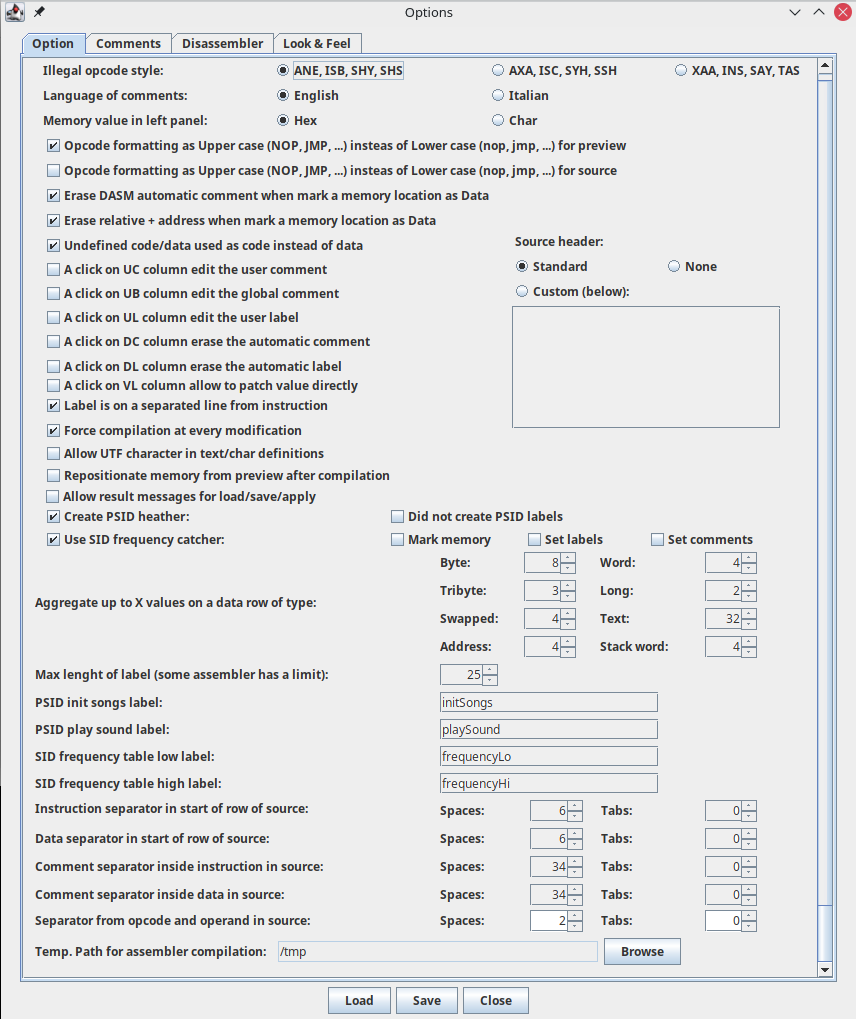
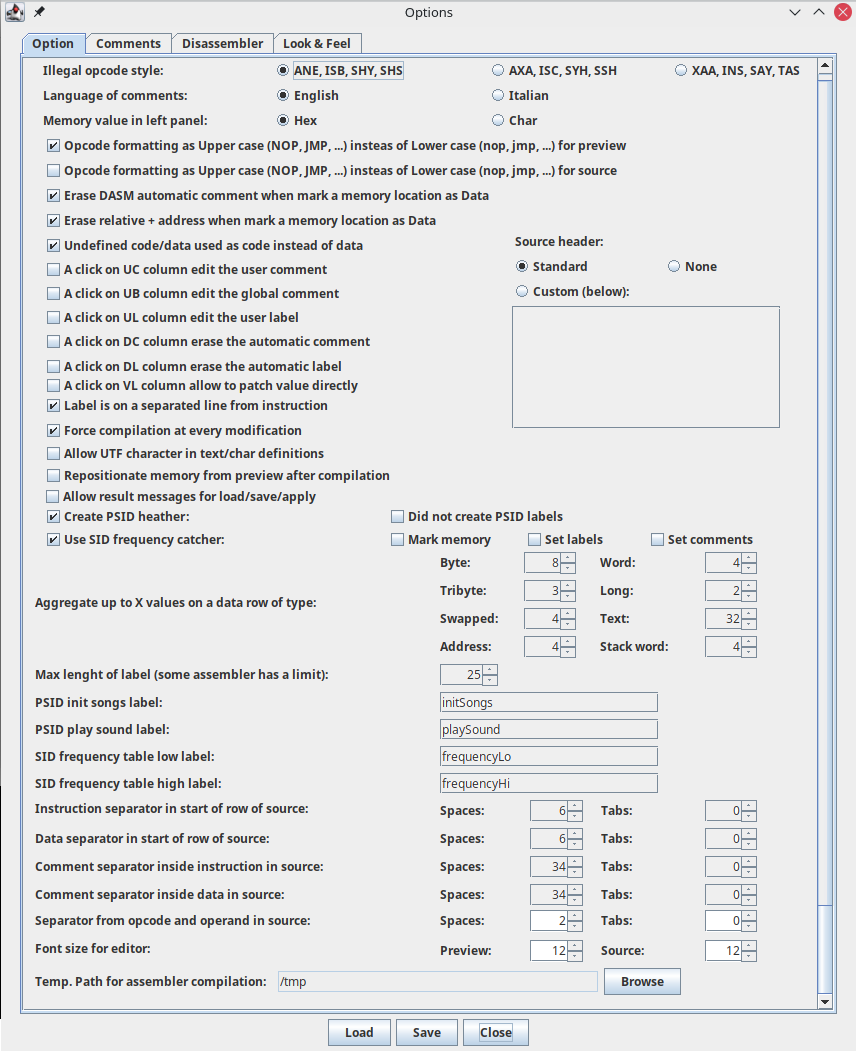
Add option for set size of preview and source text

diff --git a/src/sw_emulator/swing/help/option.html b/src/sw_emulator/swing/help/option.html
@@ -82,6 +82,7 @@
   <li><b>Comment separator inside instruction in source:</b> select how many spaces/tabs you want to separate a comment into the source with an instruction</li>
   <li><b>Comment separator inside data in source:</b> select how many spaces/tabs you want to separate a comment into the source with a data</li>
   <li><b>Separator from opcode and operand in source:</b> select how many spaces/tabs you want to separate opcode and operand. Due to the different length of opcode in processors, with 1 or 2 spaces it can break the aligment. Optimal minimal is 2 for M6502 and 3 for Z80.</li>
+  <li><b>Font size for editor:</b> select the font size for preview and source text.</li>
   <li><b>Temp path for assembler compilation:</b> a path used for generating the binary of assembler. The best way is to use a memory drive (/tmp in most of Linux ditribution for example) as the generated files are to be considearte temporary</li>
  </ul>
  The disassembler engine used the SidFreq class implemented in XSidplay2 for detecting the A4 frequency that a tune is playing by searching in memory for the low and high part of table frequency of the octaves the SID can play.<br>

diff --git a/src/sw_emulator/swing/JOptionDialog.java b/src/sw_emulator/swing/JOptionDialog.java
@@ -227,6 +227,11 @@ public class JOptionDialog extends javax.swing.JDialog {
         jSpinnerDataSpacesOp = new javax.swing.JSpinner();
         jLabelDataTabsOp = new javax.swing.JLabel();
         jSpinnerDataTabsOp = new javax.swing.JSpinner();
+        jLabelFontSize = new javax.swing.JLabel();
+        jLabelFontSizePreview = new javax.swing.JLabel();
+        jSpinnerSizePreview = new javax.swing.JSpinner();
+        jLabelFontSizeSource = new javax.swing.JLabel();
+        jSpinnerSizeSource = new javax.swing.JSpinner();
         jPanelComment = new javax.swing.JPanel();
         jLabelautocomment = new javax.swing.JLabel();
         jTabbedPaneComm = new javax.swing.JTabbedPane();
@@ -895,6 +900,28 @@ public class JOptionDialog extends javax.swing.JDialog {
             }
         });
 
+        jLabelFontSize.setText("Font size for editor:");
+
+        jLabelFontSizePreview.setText("Preview:");
+
+        jSpinnerSizePreview.setModel(new javax.swing.SpinnerNumberModel(12, 6, 78, 1));
+        jSpinnerSizePreview.setToolTipText("");
+        jSpinnerSizePreview.addChangeListener(new javax.swing.event.ChangeListener() {
+            public void stateChanged(javax.swing.event.ChangeEvent evt) {
+                jSpinnerSizePreviewStateChanged(evt);
+            }
+        });
+
+        jLabelFontSizeSource.setText("Source:");
+
+        jSpinnerSizeSource.setModel(new javax.swing.SpinnerNumberModel(12, 6, 78, 1));
+        jSpinnerSizeSource.setToolTipText("");
+        jSpinnerSizeSource.addChangeListener(new javax.swing.event.ChangeListener() {
+            public void stateChanged(javax.swing.event.ChangeEvent evt) {
+                jSpinnerSizeSourceStateChanged(evt);
+            }
+        });
+
         javax.swing.GroupLayout jPanelPreviewLayout = new javax.swing.GroupLayout(jPanelPreview);
         jPanelPreview.setLayout(jPanelPreviewLayout);
         jPanelPreviewLayout.setHorizontalGroup(
@@ -942,41 +969,6 @@ public class JOptionDialog extends javax.swing.JDialog {
                                     .addGroup(jPanelPreviewLayout.createSequentialGroup()
                                         .addGroup(jPanelPreviewLayout.createParallelGroup(javax.swing.GroupLayout.Alignment.LEADING)
                                             .addGroup(jPanelPreviewLayout.createSequentialGroup()
-                                                .addGroup(jPanelPreviewLayout.createParallelGroup(javax.swing.GroupLayout.Alignment.LEADING, false)
-                                                    .addComponent(jLabelDataCSep, javax.swing.GroupLayout.DEFAULT_SIZE, javax.swing.GroupLayout.DEFAULT_SIZE, Short.MAX_VALUE)
-                                                    .addComponent(jLabelInstrCSep, javax.swing.GroupLayout.DEFAULT_SIZE, javax.swing.GroupLayout.DEFAULT_SIZE, Short.MAX_VALUE)
-                                                    .addComponent(jLabelDataSep, javax.swing.GroupLayout.DEFAULT_SIZE, javax.swing.GroupLayout.DEFAULT_SIZE, Short.MAX_VALUE)
-                                                    .addComponent(jLabelInstrSep, javax.swing.GroupLayout.PREFERRED_SIZE, 381, javax.swing.GroupLayout.PREFERRED_SIZE))
-                                                .addGap(24, 24, 24)
-                                                .addGroup(jPanelPreviewLayout.createParallelGroup(javax.swing.GroupLayout.Alignment.LEADING)
-                                                    .addComponent(jLabelDataCSpace, javax.swing.GroupLayout.PREFERRED_SIZE, 60, javax.swing.GroupLayout.PREFERRED_SIZE)
-                                                    .addComponent(jLabelInstrCSpace, javax.swing.GroupLayout.PREFERRED_SIZE, 60, javax.swing.GroupLayout.PREFERRED_SIZE)
-                                                    .addComponent(jLabelDataSpace, javax.swing.GroupLayout.PREFERRED_SIZE, 60, javax.swing.GroupLayout.PREFERRED_SIZE)
-                                                    .addComponent(jLabelInstrSpace, javax.swing.GroupLayout.PREFERRED_SIZE, 60, javax.swing.GroupLayout.PREFERRED_SIZE)
-                                                    .addComponent(jLabelDataSpaceOp, javax.swing.GroupLayout.PREFERRED_SIZE, 60, javax.swing.GroupLayout.PREFERRED_SIZE))
-                                                .addGap(30, 30, 30)
-                                                .addGroup(jPanelPreviewLayout.createParallelGroup(javax.swing.GroupLayout.Alignment.LEADING)
-                                                    .addGroup(jPanelPreviewLayout.createSequentialGroup()
-                                                        .addComponent(jSpinnerInstrCSpaces, javax.swing.GroupLayout.PREFERRED_SIZE, 53, javax.swing.GroupLayout.PREFERRED_SIZE)
-                                                        .addGap(18, 18, 18)
-                                                        .addComponent(jLabelInstrCTabs))
-                                                    .addGroup(jPanelPreviewLayout.createSequentialGroup()
-                                                        .addGroup(jPanelPreviewLayout.createParallelGroup(javax.swing.GroupLayout.Alignment.LEADING)
-                                                            .addComponent(jSpinnerDataSpaces, javax.swing.GroupLayout.PREFERRED_SIZE, 53, javax.swing.GroupLayout.PREFERRED_SIZE)
-                                                            .addComponent(jSpinnerInstrSpaces, javax.swing.GroupLayout.PREFERRED_SIZE, 53, javax.swing.GroupLayout.PREFERRED_SIZE))
-                                                        .addPreferredGap(javax.swing.LayoutStyle.ComponentPlacement.UNRELATED)
-                                                        .addGroup(jPanelPreviewLayout.createParallelGroup(javax.swing.GroupLayout.Alignment.LEADING)
-                                                            .addComponent(jLabelInstrTabs)
-                                                            .addComponent(jLabelDataTabs)))
-                                                    .addGroup(jPanelPreviewLayout.createSequentialGroup()
-                                                        .addGroup(jPanelPreviewLayout.createParallelGroup(javax.swing.GroupLayout.Alignment.LEADING)
-                                                            .addComponent(jSpinnerDataCSpaces, javax.swing.GroupLayout.PREFERRED_SIZE, 53, javax.swing.GroupLayout.PREFERRED_SIZE)
-                                                            .addComponent(jSpinnerDataSpacesOp, javax.swing.GroupLayout.PREFERRED_SIZE, 53, javax.swing.GroupLayout.PREFERRED_SIZE))
-                                                        .addGap(18, 18, 18)
-                                                        .addGroup(jPanelPreviewLayout.createParallelGroup(javax.swing.GroupLayout.Alignment.LEADING)
-                                                            .addComponent(jLabelDataTabsOp)
-                                                            .addComponent(jLabelDataCTabs)))))
-                                            .addGroup(jPanelPreviewLayout.createSequentialGroup()
                                                 .addGap(352, 352, 352)
                                                 .addGroup(jPanelPreviewLayout.createParallelGroup(javax.swing.GroupLayout.Alignment.TRAILING)
                                                     .addGroup(jPanelPreviewLayout.createSequentialGroup()
@@ -1006,18 +998,65 @@ public class JOptionDialog extends javax.swing.JDialog {
                                                                 .addGap(18, 18, 18)
                                                                 .addComponent(jCheckBoxSetLabels)))
                                                         .addGap(97, 97, 97))))
-                                            .addComponent(jLabelDataSepOp, javax.swing.GroupLayout.PREFERRED_SIZE, 381, javax.swing.GroupLayout.PREFERRED_SIZE))
+                                            .addComponent(jLabelDataSepOp, javax.swing.GroupLayout.PREFERRED_SIZE, 381, javax.swing.GroupLayout.PREFERRED_SIZE)
+                                            .addGroup(jPanelPreviewLayout.createSequentialGroup()
+                                                .addGroup(jPanelPreviewLayout.createParallelGroup(javax.swing.GroupLayout.Alignment.LEADING)
+                                                    .addGroup(jPanelPreviewLayout.createParallelGroup(javax.swing.GroupLayout.Alignment.LEADING, false)
+                                                        .addComponent(jLabelDataCSep, javax.swing.GroupLayout.DEFAULT_SIZE, javax.swing.GroupLayout.DEFAULT_SIZE, Short.MAX_VALUE)
+                                                        .addComponent(jLabelInstrCSep, javax.swing.GroupLayout.DEFAULT_SIZE, javax.swing.GroupLayout.DEFAULT_SIZE, Short.MAX_VALUE)
+                                                        .addComponent(jLabelDataSep, javax.swing.GroupLayout.DEFAULT_SIZE, javax.swing.GroupLayout.DEFAULT_SIZE, Short.MAX_VALUE)
+                                                        .addComponent(jLabelInstrSep, javax.swing.GroupLayout.PREFERRED_SIZE, 381, javax.swing.GroupLayout.PREFERRED_SIZE))
+                                                    .addComponent(jLabelFontSize))
+                                                .addGap(24, 24, 24)
+                                                .addGroup(jPanelPreviewLayout.createParallelGroup(javax.swing.GroupLayout.Alignment.LEADING)
+                                                    .addGroup(jPanelPreviewLayout.createSequentialGroup()
+                                                        .addGroup(jPanelPreviewLayout.createParallelGroup(javax.swing.GroupLayout.Alignment.LEADING)
+                                                            .addComponent(jLabelDataCSpace, javax.swing.GroupLayout.PREFERRED_SIZE, 60, javax.swing.GroupLayout.PREFERRED_SIZE)
+                                                            .addComponent(jLabelInstrCSpace, javax.swing.GroupLayout.PREFERRED_SIZE, 60, javax.swing.GroupLayout.PREFERRED_SIZE)
+                                                            .addComponent(jLabelDataSpace, javax.swing.GroupLayout.PREFERRED_SIZE, 60, javax.swing.GroupLayout.PREFERRED_SIZE)
+                                                            .addComponent(jLabelInstrSpace, javax.swing.GroupLayout.PREFERRED_SIZE, 60, javax.swing.GroupLayout.PREFERRED_SIZE)
+                                                            .addComponent(jLabelDataSpaceOp, javax.swing.GroupLayout.PREFERRED_SIZE, 60, javax.swing.GroupLayout.PREFERRED_SIZE))
+                                                        .addGap(30, 30, 30)
+                                                        .addGroup(jPanelPreviewLayout.createParallelGroup(javax.swing.GroupLayout.Alignment.LEADING)
+                                                            .addGroup(jPanelPreviewLayout.createSequentialGroup()
+                                                                .addComponent(jSpinnerInstrCSpaces, javax.swing.GroupLayout.PREFERRED_SIZE, 53, javax.swing.GroupLayout.PREFERRED_SIZE)
+                                                                .addGap(18, 18, 18)
+                                                                .addComponent(jLabelInstrCTabs))
+                                                            .addGroup(jPanelPreviewLayout.createSequentialGroup()
+                                                                .addGroup(jPanelPreviewLayout.createParallelGroup(javax.swing.GroupLayout.Alignment.LEADING)
+                                                                    .addComponent(jSpinnerDataSpaces, javax.swing.GroupLayout.PREFERRED_SIZE, 53, javax.swing.GroupLayout.PREFERRED_SIZE)
+                                                                    .addComponent(jSpinnerInstrSpaces, javax.swing.GroupLayout.PREFERRED_SIZE, 53, javax.swing.GroupLayout.PREFERRED_SIZE))
+                                                                .addPreferredGap(javax.swing.LayoutStyle.ComponentPlacement.UNRELATED)
+                                                                .addGroup(jPanelPreviewLayout.createParallelGroup(javax.swing.GroupLayout.Alignment.LEADING)
+                                                                    .addComponent(jLabelInstrTabs)
+                                                                    .addComponent(jLabelDataTabs)))
+                                                            .addGroup(jPanelPreviewLayout.createSequentialGroup()
+                                                                .addGroup(jPanelPreviewLayout.createParallelGroup(javax.swing.GroupLayout.Alignment.LEADING)
+                                                                    .addComponent(jSpinnerDataCSpaces, javax.swing.GroupLayout.PREFERRED_SIZE, 53, javax.swing.GroupLayout.PREFERRED_SIZE)
+                                                                    .addComponent(jSpinnerDataSpacesOp, javax.swing.GroupLayout.PREFERRED_SIZE, 53, javax.swing.GroupLayout.PREFERRED_SIZE))
+                                                                .addGap(18, 18, 18)
+                                                                .addGroup(jPanelPreviewLayout.createParallelGroup(javax.swing.GroupLayout.Alignment.LEADING)
+                                                                    .addComponent(jLabelDataTabsOp)
+                                                                    .addComponent(jLabelDataCTabs)))))
+                                                    .addGroup(jPanelPreviewLayout.createSequentialGroup()
+                                                        .addComponent(jLabelFontSizePreview, javax.swing.GroupLayout.PREFERRED_SIZE, 60, javax.swing.GroupLayout.PREFERRED_SIZE)
+                                                        .addGap(30, 30, 30)
+                                                        .addComponent(jSpinnerSizePreview, javax.swing.GroupLayout.PREFERRED_SIZE, 53, javax.swing.GroupLayout.PREFERRED_SIZE)
+                                                        .addGap(18, 18, 18)
+                                                        .addComponent(jLabelFontSizeSource)))))
                                         .addPreferredGap(javax.swing.LayoutStyle.ComponentPlacement.RELATED)
-                                        .addGroup(jPanelPreviewLayout.createParallelGroup(javax.swing.GroupLayout.Alignment.LEADING, false)
-                                            .addComponent(jSpinnerMaxWordAggregate)
-                                            .addComponent(jSpinnerMaxLongAggregate)
-                                            .addComponent(jSpinnerMaxTextAggregate)
-                                            .addComponent(jSpinnerInstrCTabs)
-                                            .addComponent(jSpinnerDataTabs)
-                                            .addComponent(jSpinnerInstrTabs)
-                                            .addComponent(jSpinnerMaxStackWordAggregate)
-                                            .addComponent(jSpinnerDataCTabs, javax.swing.GroupLayout.PREFERRED_SIZE, 52, javax.swing.GroupLayout.PREFERRED_SIZE)
-                                            .addComponent(jSpinnerDataTabsOp, javax.swing.GroupLayout.PREFERRED_SIZE, 52, javax.swing.GroupLayout.PREFERRED_SIZE))))
+                                        .addGroup(jPanelPreviewLayout.createParallelGroup(javax.swing.GroupLayout.Alignment.LEADING)
+                                            .addComponent(jSpinnerSizeSource, javax.swing.GroupLayout.PREFERRED_SIZE, 52, javax.swing.GroupLayout.PREFERRED_SIZE)
+                                            .addGroup(jPanelPreviewLayout.createParallelGroup(javax.swing.GroupLayout.Alignment.LEADING, false)
+                                                .addComponent(jSpinnerMaxWordAggregate)
+                                                .addComponent(jSpinnerMaxLongAggregate)
+                                                .addComponent(jSpinnerMaxTextAggregate)
+                                                .addComponent(jSpinnerInstrCTabs)
+                                                .addComponent(jSpinnerDataTabs)
+                                                .addComponent(jSpinnerInstrTabs)
+                                                .addComponent(jSpinnerMaxStackWordAggregate)
+                                                .addComponent(jSpinnerDataCTabs, javax.swing.GroupLayout.PREFERRED_SIZE, 52, javax.swing.GroupLayout.PREFERRED_SIZE)
+                                                .addComponent(jSpinnerDataTabsOp, javax.swing.GroupLayout.PREFERRED_SIZE, 52, javax.swing.GroupLayout.PREFERRED_SIZE)))))
                                 .addGap(0, 0, Short.MAX_VALUE))))
                     .addGroup(jPanelPreviewLayout.createSequentialGroup()
                         .addGap(20, 20, 20)
@@ -1225,17 +1264,25 @@ public class JOptionDialog extends javax.swing.JDialog {
                             .addComponent(jLabelDataCSep))))
                 .addPreferredGap(javax.swing.LayoutStyle.ComponentPlacement.RELATED)
                 .addGroup(jPanelPreviewLayout.createParallelGroup(javax.swing.GroupLayout.Alignment.CENTER)
+                    .addComponent(jLabelDataSepOp)
                     .addComponent(jLabelDataSpaceOp)
                     .addComponent(jSpinnerDataSpacesOp, javax.swing.GroupLayout.PREFERRED_SIZE, javax.swing.GroupLayout.DEFAULT_SIZE, javax.swing.GroupLayout.PREFERRED_SIZE)
                     .addComponent(jLabelDataTabsOp)
-                    .addComponent(jSpinnerDataTabsOp, javax.swing.GroupLayout.Alignment.LEADING, javax.swing.GroupLayout.PREFERRED_SIZE, javax.swing.GroupLayout.DEFAULT_SIZE, javax.swing.GroupLayout.PREFERRED_SIZE)
-                    .addComponent(jLabelDataSepOp))
+                    .addComponent(jSpinnerDataTabsOp, javax.swing.GroupLayout.PREFERRED_SIZE, javax.swing.GroupLayout.DEFAULT_SIZE, javax.swing.GroupLayout.PREFERRED_SIZE))
+                .addPreferredGap(javax.swing.LayoutStyle.ComponentPlacement.RELATED)
+                .addGroup(jPanelPreviewLayout.createParallelGroup(javax.swing.GroupLayout.Alignment.LEADING)
+                    .addComponent(jLabelFontSize)
+                    .addGroup(jPanelPreviewLayout.createParallelGroup(javax.swing.GroupLayout.Alignment.CENTER)
+                        .addComponent(jLabelFontSizePreview)
+                        .addComponent(jSpinnerSizePreview, javax.swing.GroupLayout.PREFERRED_SIZE, javax.swing.GroupLayout.DEFAULT_SIZE, javax.swing.GroupLayout.PREFERRED_SIZE)
+                        .addComponent(jLabelFontSizeSource)
+                        .addComponent(jSpinnerSizeSource, javax.swing.GroupLayout.PREFERRED_SIZE, javax.swing.GroupLayout.DEFAULT_SIZE, javax.swing.GroupLayout.PREFERRED_SIZE)))
                 .addPreferredGap(javax.swing.LayoutStyle.ComponentPlacement.RELATED)
                 .addGroup(jPanelPreviewLayout.createParallelGroup(javax.swing.GroupLayout.Alignment.BASELINE)
                     .addComponent(jLabelTmpPath)
                     .addComponent(jTextFieldTmpPath, javax.swing.GroupLayout.PREFERRED_SIZE, javax.swing.GroupLayout.DEFAULT_SIZE, javax.swing.GroupLayout.PREFERRED_SIZE)
                     .addComponent(jButtonBrowse))
-                .addContainerGap(javax.swing.GroupLayout.DEFAULT_SIZE, Short.MAX_VALUE))
+                .addContainerGap(14, Short.MAX_VALUE))
         );
 
         jScrollPanePreview.setViewportView(jPanelPreview);
@@ -2617,7 +2664,7 @@ public class JOptionDialog extends javax.swing.JDialog {
                         .addGroup(jPanelLookLayout.createParallelGroup(javax.swing.GroupLayout.Alignment.LEADING)
                             .addComponent(jLabelArrow, javax.swing.GroupLayout.PREFERRED_SIZE, 23, javax.swing.GroupLayout.PREFERRED_SIZE)
                             .addComponent(jRadioButtonLookSynth))
-                        .addContainerGap(389, Short.MAX_VALUE))))
+                        .addContainerGap(595, Short.MAX_VALUE))))
         );
 
         jTabbedPaneOption.addTab("Look & Feel", jPanelLook);
@@ -3474,6 +3521,14 @@ public class JOptionDialog extends javax.swing.JDialog {
       else option.numTabsOp=num;  
     }//GEN-LAST:event_jSpinnerDataTabsOpStateChanged
 
+    private void jSpinnerSizePreviewStateChanged(javax.swing.event.ChangeEvent evt) {//GEN-FIRST:event_jSpinnerSizePreviewStateChanged
+      option.sizePreviewFont=(Integer)((JSpinner) evt.getSource()).getValue();
+    }//GEN-LAST:event_jSpinnerSizePreviewStateChanged
+
+    private void jSpinnerSizeSourceStateChanged(javax.swing.event.ChangeEvent evt) {//GEN-FIRST:event_jSpinnerSizeSourceStateChanged
+      option.sizeSourceFont=(Integer)((JSpinner) evt.getSource()).getValue();
+    }//GEN-LAST:event_jSpinnerSizeSourceStateChanged
+
     /**
      * @param args the command line arguments
      */
@@ -3658,6 +3713,9 @@ public class JOptionDialog extends javax.swing.JDialog {
     private javax.swing.JLabel jLabelDataTabs;
     private javax.swing.JLabel jLabelDataTabsOp;
     private javax.swing.JLabel jLabelFlatLaf;
+    private javax.swing.JLabel jLabelFontSize;
+    private javax.swing.JLabel jLabelFontSizePreview;
+    private javax.swing.JLabel jLabelFontSizeSource;
     private javax.swing.JLabel jLabelHeather;
     private javax.swing.JLabel jLabelIllegalOpcodeStyle;
     private javax.swing.JLabel jLabelInstrCSep;
@@ -3751,6 +3809,8 @@ public class JOptionDialog extends javax.swing.JDialog {
     private javax.swing.JSpinner jSpinnerMaxTextAggregate;
     private javax.swing.JSpinner jSpinnerMaxTribyteAggregate;
     private javax.swing.JSpinner jSpinnerMaxWordAggregate;
+    private javax.swing.JSpinner jSpinnerSizePreview;
+    private javax.swing.JSpinner jSpinnerSizeSource;
     private javax.swing.JTabbedPane jTabbedPaneAssembler;
     private javax.swing.JTabbedPane jTabbedPaneComm;
     private javax.swing.JTabbedPane jTabbedPaneOption;
@@ -3821,6 +3881,8 @@ public class JOptionDialog extends javax.swing.JDialog {
       jSpinnerDataCTabs.setValue(option.numDataCTabs);
       jSpinnerDataSpacesOp.setValue(option.numSpacesOp);
       jSpinnerDataTabsOp.setValue(option.numTabsOp);
+      jSpinnerSizePreview.setValue(option.sizePreviewFont);
+      jSpinnerSizeSource.setValue(option.sizeSourceFont);
       jCheckBoxLabel.setSelected(option.labelOnSepLine);
       jTextFieldTmpPath.setText(option.tmpPath);
       jCheckBoxDcErase.setSelected(option.clickDcErase);

diff --git a/src/sw_emulator/swing/JDisassemblerFrame.java b/src/sw_emulator/swing/JDisassemblerFrame.java
@@ -244,7 +244,7 @@ public class JDisassemblerFrame extends javax.swing.JFrame implements userAction
         //  else Option.useLookAndFeel(option.getLafName(), option.getMethalTheme());
         
         jOptionDialog.useOption(option);
-        
+       
         projectChooserFile.addChoosableFileFilter(new FileNameExtensionFilter("JC64Dis (*.dis)", "dis"));
         projectChooserFile.setAcceptAllFileFilterUsed(false);
         projectChooserFile.setCurrentDirectory(new File(m_prefNode.get(LAST_DIR_PROJECT, "")));
@@ -5877,11 +5877,26 @@ public class JDisassemblerFrame extends javax.swing.JFrame implements userAction
   }
   
   /**
+   * Use font size in option
+   */
+  private void useFont() {
+    Font font;
+       
+    font=rSyntaxTextAreaDis.getFont();
+    if (font.getSize() != option.sizePreviewFont) rSyntaxTextAreaDis.setFont(font.deriveFont(font.getStyle(), option.sizePreviewFont));  
+    
+    font=rSyntaxTextAreaSource.getFont();
+    if (font.getSize() != option.sizeSourceFont) rSyntaxTextAreaSource.setFont(font.deriveFont(font.getStyle(), option.sizeSourceFont));  
+  }
+  
+  /**
    * Disassembly the memory
    * 
    * @param storeUndo true if we store for the undo the compiled project
    */
   private void disassembly(boolean storeUndo) {
+    useFont();  
+      
     if (project==null) {
       disassembly.source="";
       disassembly.disassembly="";

diff --git a/src/sw_emulator/swing/main/FileManager.java b/src/sw_emulator/swing/main/FileManager.java
@@ -398,6 +398,9 @@ public class FileManager {
       //2.3
       option.numSpacesOp=in.readInt();
       option.numTabsOp=in.readInt();
+      option.sizePreviewFont=in.readInt();
+      option.sizeSourceFont=in.readInt();
+      
     } catch (FileNotFoundException e) {
          return true; 
     } catch (Exception e) {
@@ -741,6 +744,8 @@ public class FileManager {
       //2.3
       out.writeInt(option.numSpacesOp);
       out.writeInt(option.numTabsOp);
+      out.writeInt(option.sizePreviewFont);
+      out.writeInt(option.sizeSourceFont);
       
       out.flush();
       out.close();

diff --git a/src/sw_emulator/swing/main/Option.java b/src/sw_emulator/swing/main/Option.java
@@ -354,6 +354,12 @@ public class Option {
   
   /** Number of tabs from opcode and operand */
   public int numTabsOp=0;
+    
+  /** Size of preview font */
+  public int sizePreviewFont=12;
+     
+  /** Size of source font */
+  public int sizeSourceFont=12;
   
   /** A label is on a sepatate line from instruction */
   public boolean labelOnSepLine=true;
